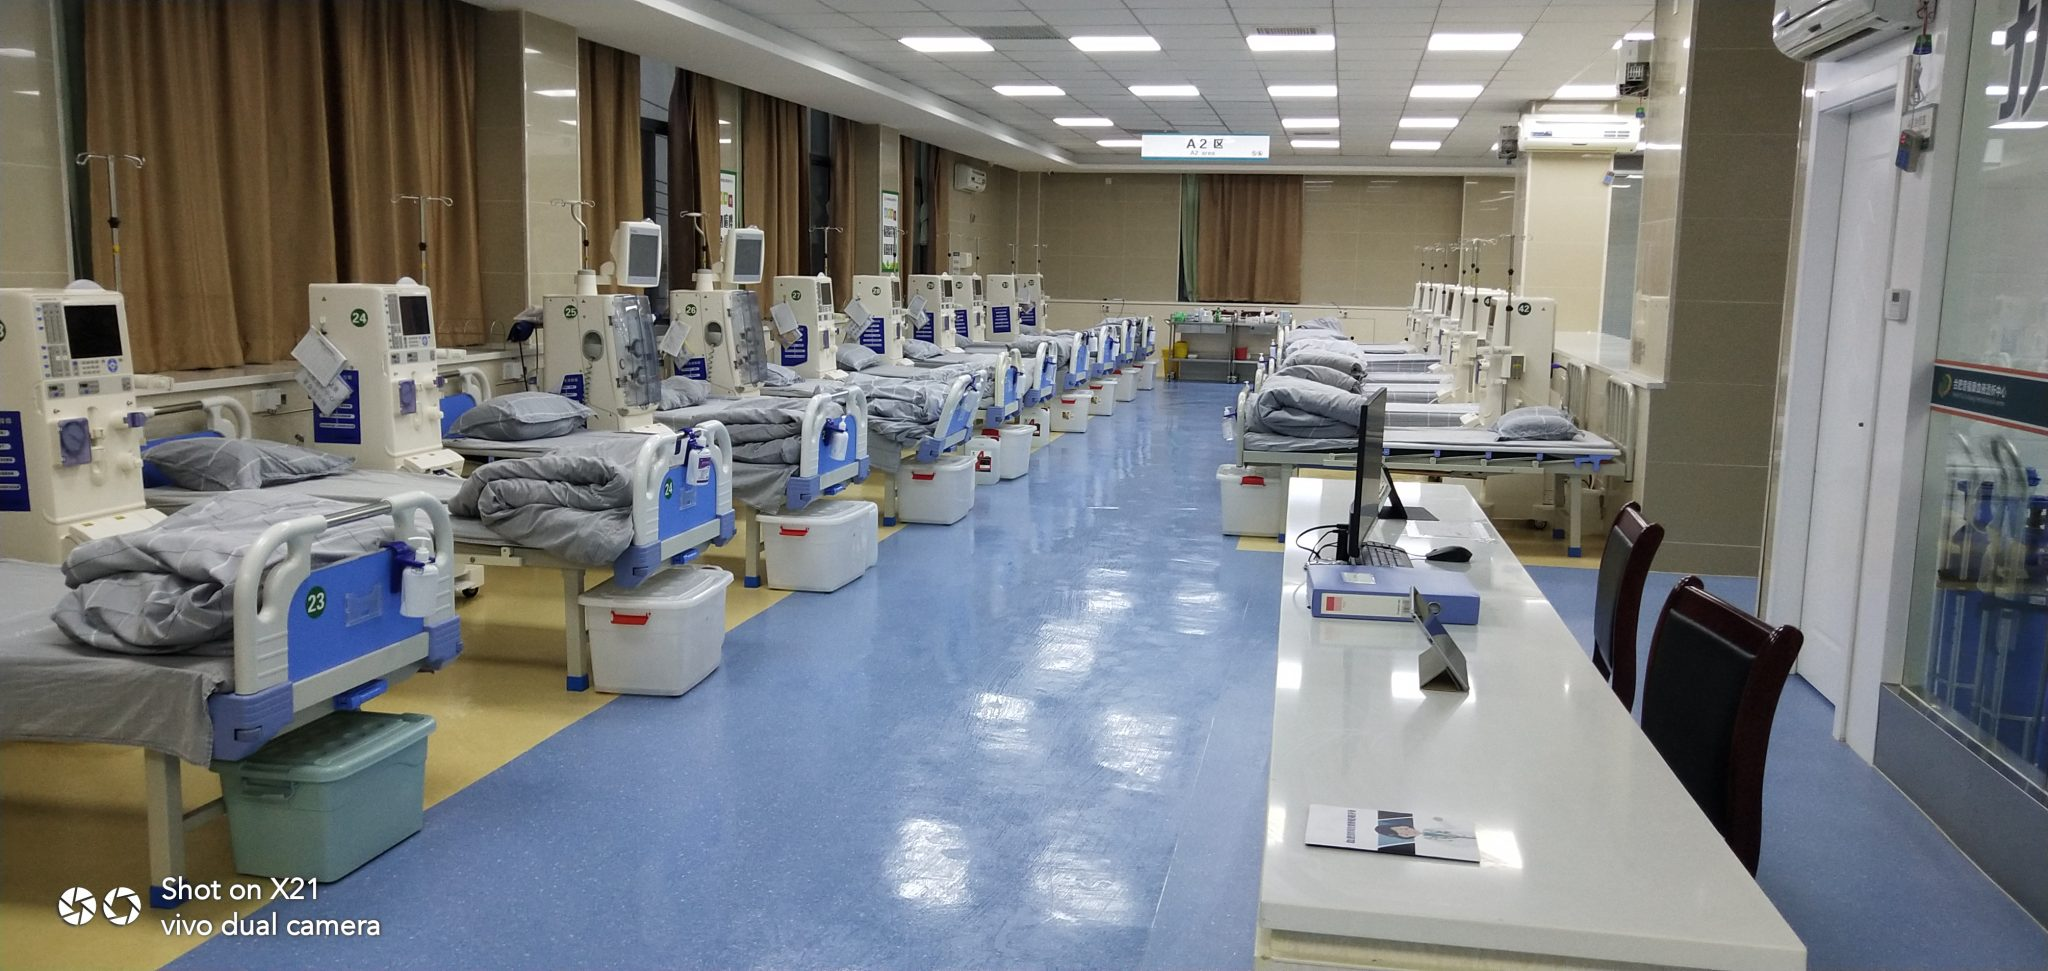
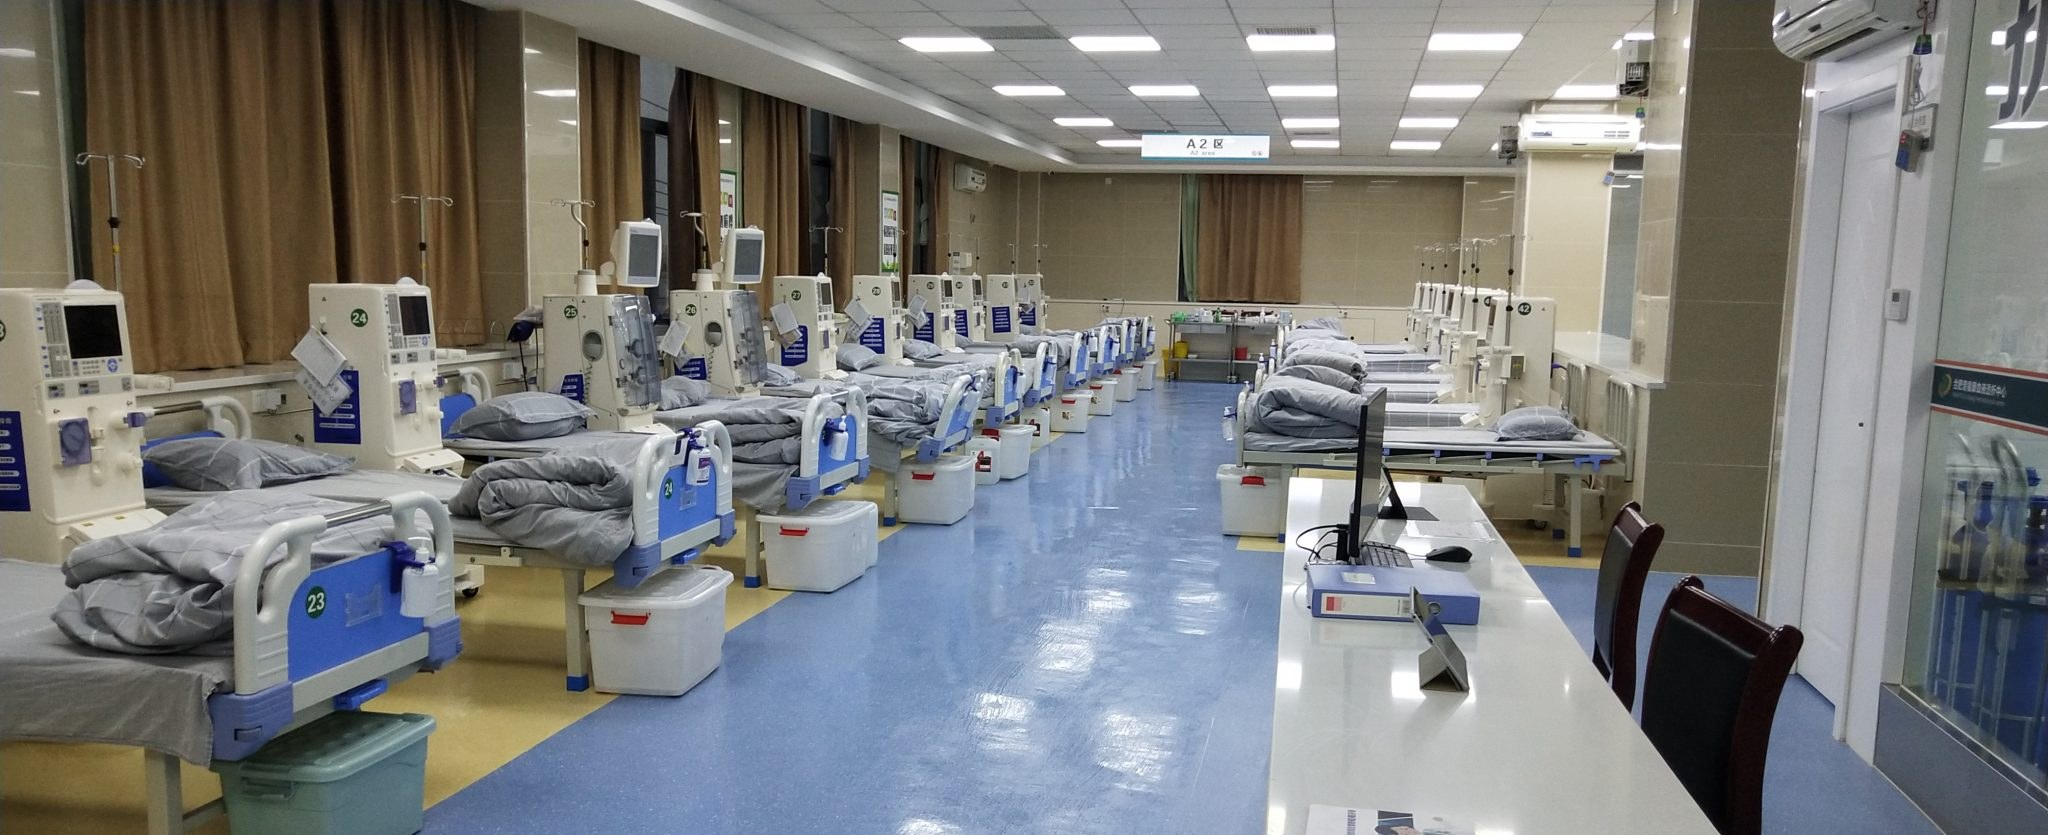
Remove a phone watermark from three photos, and fix the name of the flagship hospital
Three of the Hefei Pufukang photographs carried "Shot on X21 / vivo dual camera"
burned into the lower left. One of them is the audience card on the homepage and
another is the cover of the company profile deck. The watermark sat in the bottom
14% of the frame, so cropping it off costs nothing the composition needed.

The flagship hospital is 大连仁人医院, not 人仁. I had it the wrong way round: the
Obsidian notes spell it 人仁 eleven times against 仁人 twice, so I followed the
notes. The financial system of record spells it 仁人 fifty-two times and 人仁 not
once, which settles it. Corrected in all four dictionaries and in the deck.

Also reframes the homepage photographs. The hero source is 16:9 and was being
poured into a 4:3 box, which threw away a quarter of the width; 3:2 loses far
less. The audience cards crop 3:2 and 2.45:1 sources into 16:9, and centring
those cut through people's heads, so each card now carries its own
object-position.

Claude-Session: https://claude.ai/code/session_019QrKV2iUibXkBwd3GvBShX

diff --git a/src/app/[locale]/HomeClient.tsx b/src/app/[locale]/HomeClient.tsx
@@ -62,6 +62,7 @@ export default function HomeClient({ locale, dictionary }: HomeClientProps) {
       href: `/${locale}/platform`,
       label: d.nav.platform,
       photo: '/images/partnership/treatment-floor.jpg',
+      focus: 'center 42%',
     },
     {
       icon: HeartPulse,
@@ -70,6 +71,7 @@ export default function HomeClient({ locale, dictionary }: HomeClientProps) {
       href: `/${locale}/services`,
       label: d.nav.services,
       photo: '/images/centers/lujiang-xingkang/3.jpg',
+      focus: 'center 34%',
     },
     {
       icon: Handshake,
@@ -78,6 +80,7 @@ export default function HomeClient({ locale, dictionary }: HomeClientProps) {
       href: `/${locale}/deployment`,
       label: d.nav.deployment,
       photo: '/images/partnership/building.jpg',
+      focus: 'center 45%',
     },
     {
       icon: TrendingUp,
@@ -86,6 +89,7 @@ export default function HomeClient({ locale, dictionary }: HomeClientProps) {
       href: `/${locale}/company`,
       label: d.nav.company,
       photo: '/images/centers/hefei-pufukang/3.jpg',
+      focus: 'center center',
     },
   ]
 
@@ -152,7 +156,7 @@ export default function HomeClient({ locale, dictionary }: HomeClientProps) {
           transition={{ ...fade.transition, delay: 0.1 }}
           className="relative hidden lg:block"
         >
-          <div className="relative aspect-[4/3] overflow-hidden rounded-xl shadow-stripe-lg">
+          <div className="relative aspect-[3/2] overflow-hidden rounded-xl shadow-stripe-lg">
             <Image
               src="/images/partnership/center-5.png"
               alt={d.home.hero.title1}
@@ -217,6 +221,7 @@ export default function HomeClient({ locale, dictionary }: HomeClientProps) {
                     alt=""
                     fill
                     sizes="(max-width: 768px) 100vw, 50vw"
+                    style={{ objectPosition: a.focus }}
                     className="object-cover transition-transform duration-700 group-hover:scale-[1.03]"
                   />
                   <div
